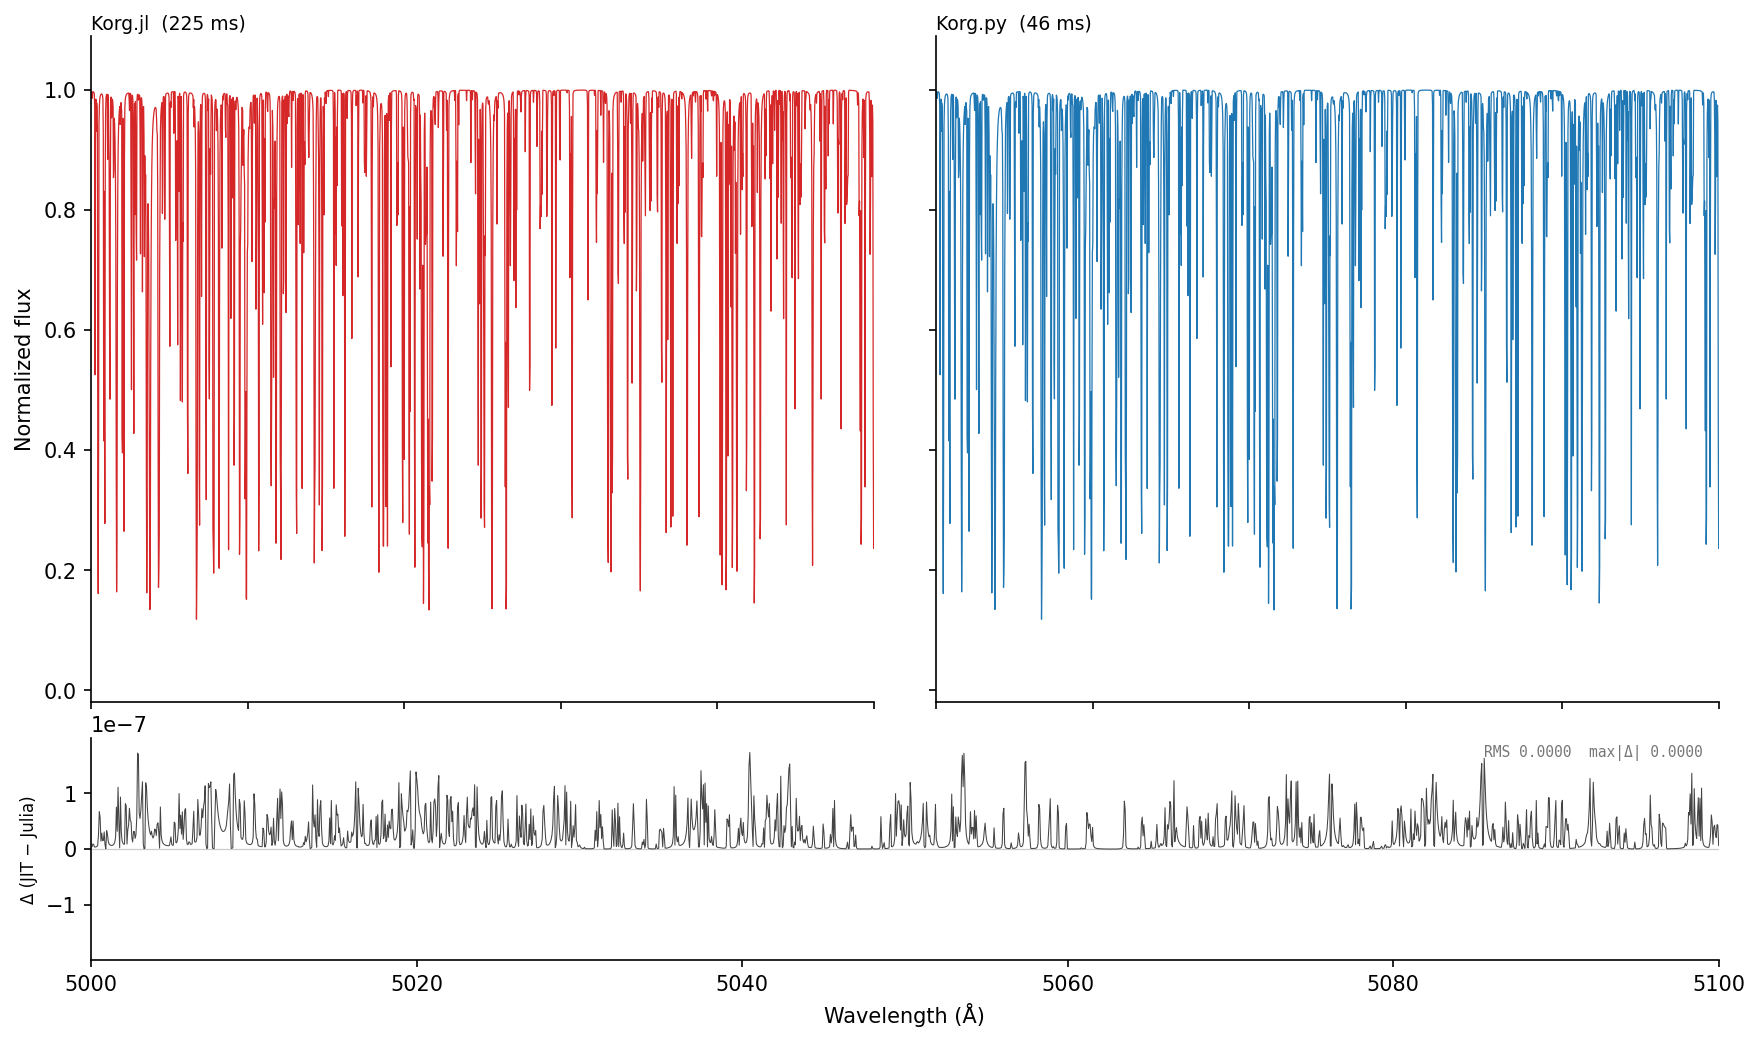
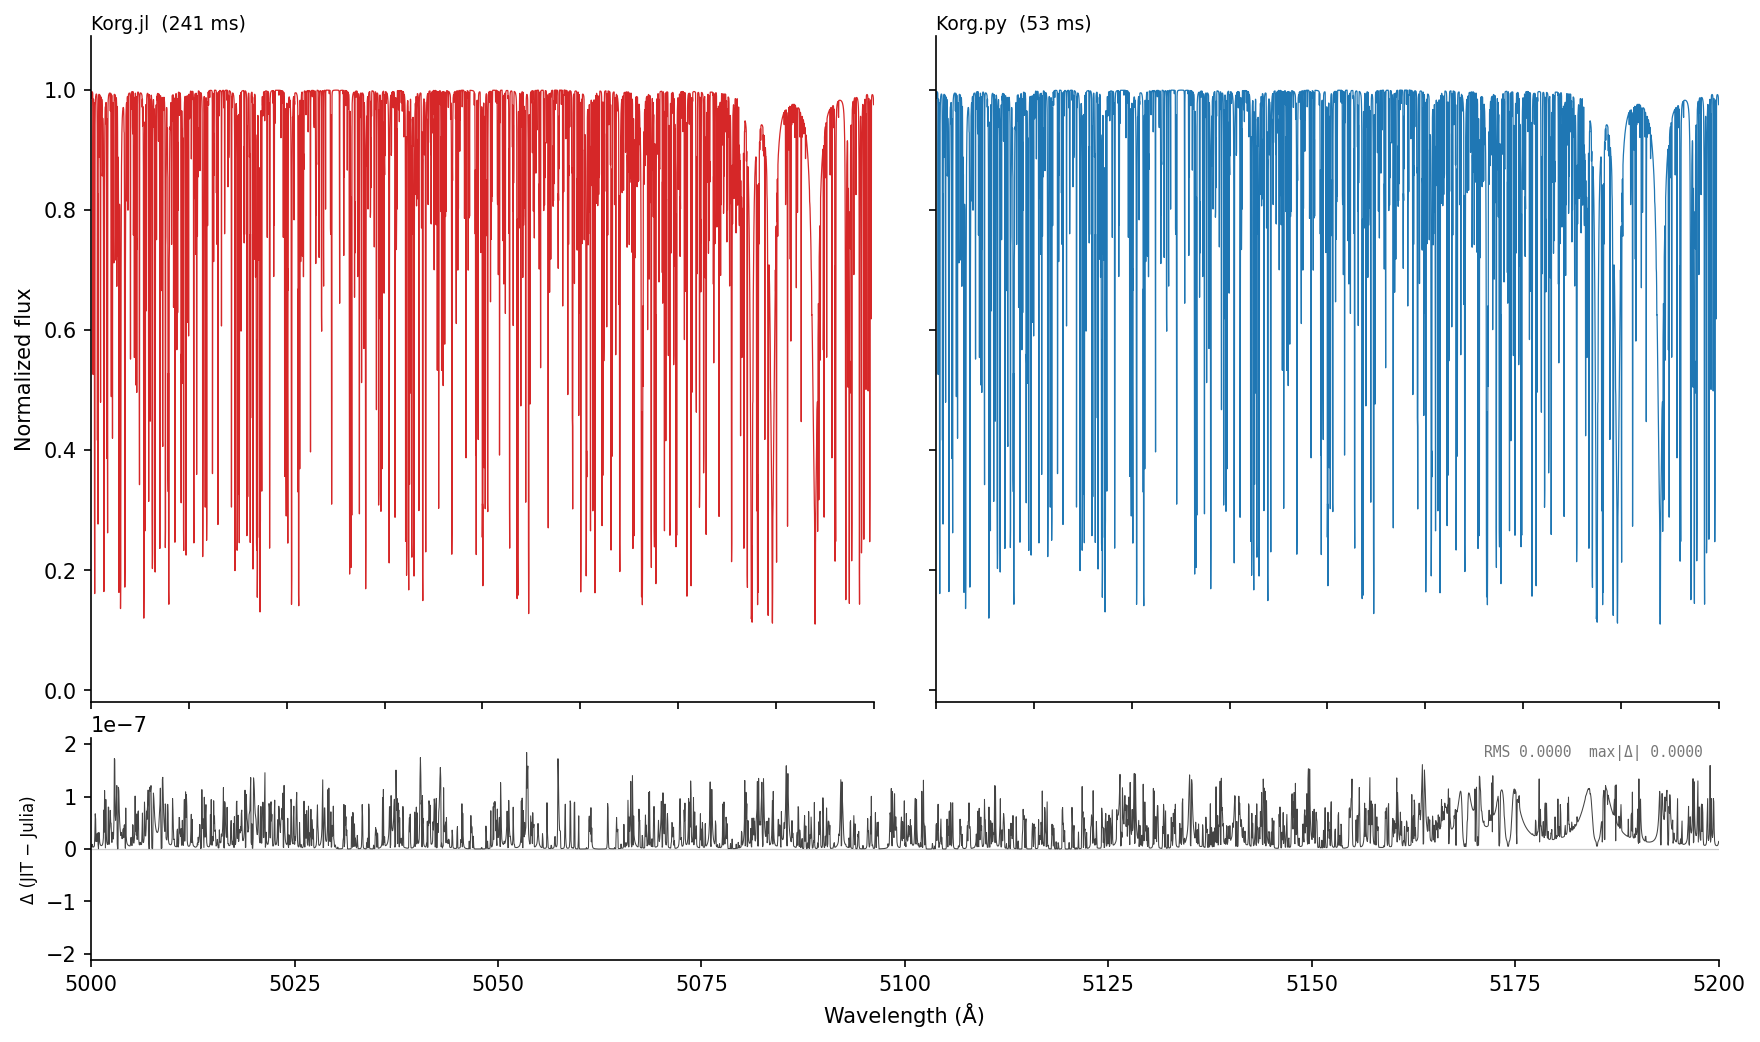
ok

diff --git a/scripts/vald_synthesis_comparison.py b/scripts/vald_synthesis_comparison.py
@@ -30,9 +30,9 @@ ATMOSPHERE_PATH = os.path.join(os.path.dirname(__file__), '..', 'sun.mod')
 OUTPUT_H5 = '/tmp/julia_vald_synthesis.h5'
 OUTPUT_PNG = os.path.join(os.path.dirname(__file__), '..', 'vald_synthesis_comparison.png')
 
-WL_MIN = 5100.0  # Å
+WL_MIN = 5000.0  # Å
 WL_MAX = 5200.0  # Å
-N_WL = 2_000
+N_WL = 4_000
 
 
 def run_python_synthesis_jit():
